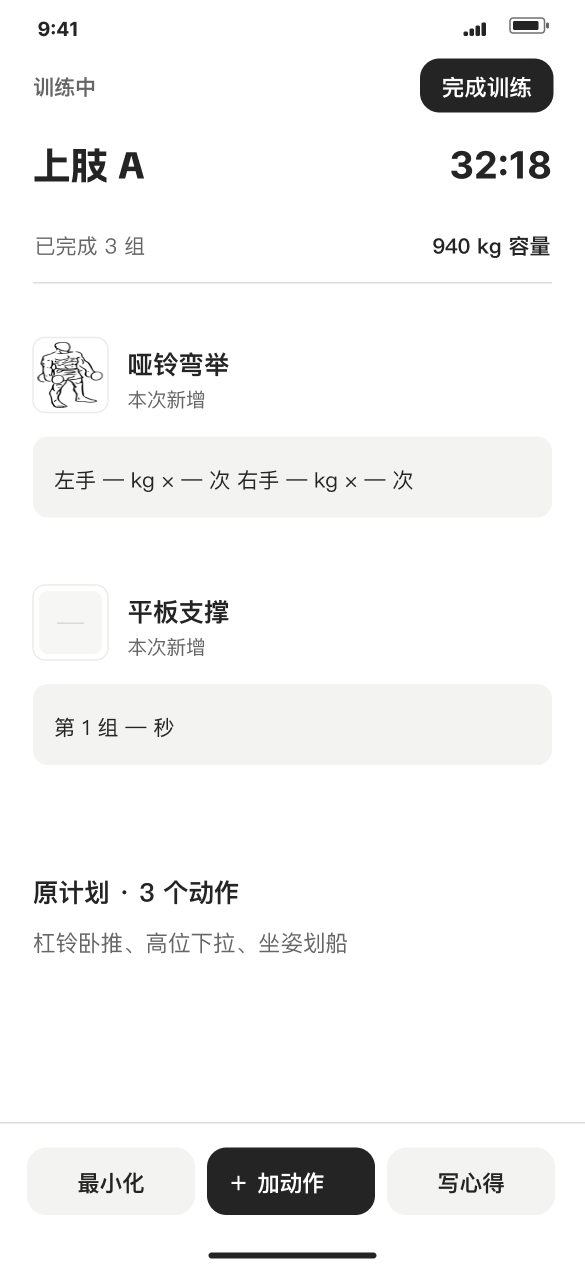
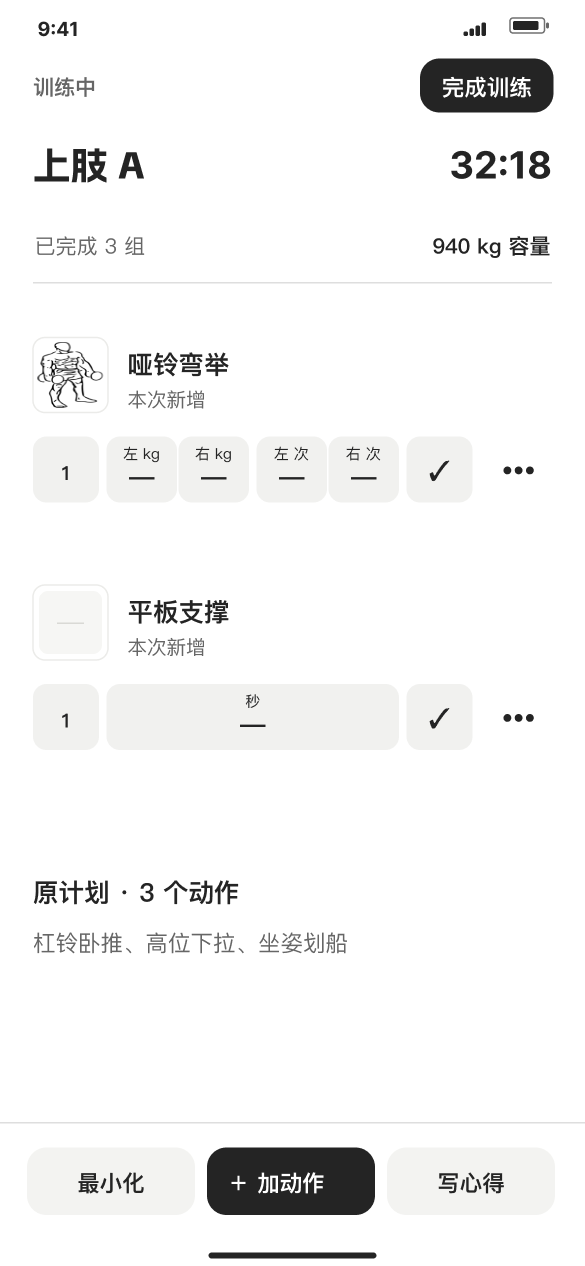
发布健身 1.11.4 并同步原位数字输入设计稿

diff --git a/components/gym/training-set.tsx b/components/gym/training-set.tsx
@@ -1,56 +1,81 @@
 "use client";
-import { useState } from "react";
+import { useState, useRef } from "react";
 import { Check, MoreHorizontal, Plus, X } from "lucide-react";
 import { emptyValues, type Mode, type SetRow, type Values } from "@/lib/gym/model";
-import { Sheet, SetForm } from "./parts";
+import { Sheet } from "./parts";
 
 type Props = {
   row: SetRow; number: number; mode: Mode; busy: boolean; canCopy: boolean; message: string;
-  save: (stages: Values[], done: boolean, after?: () => void) => void;
+  save: (stages: Values[], done: boolean, after?: () => void, quiet?: boolean) => void;
   copy: () => void;
 };
 
 export function TrainingSet({ row, number, mode, busy, canCopy, message, save, copy }: Props) {
   const [menu, setMenu] = useState(false);
-  const [editing, edit] = useState<number | null>(null);
+  const form = useRef<HTMLDivElement>(null);
   const stages = [row, ...row.stages];
   const drop = stages.length > 1;
   const hasValue = (v: Values) => mode === "time" ? v.seconds > 0 : v.reps + v.rightReps > 0;
+  function readFields() {
+    const next = stages.map(({kg,reps,rightKg,rightReps,seconds}) => ({kg,reps,rightKg,rightReps,seconds}));
+    for (const input of form.current?.querySelectorAll<HTMLInputElement>("input[data-field]") ?? []) {
+      next[Number(input.dataset.stage)][input.dataset.field as keyof Values] = Number(input.value);
+    }
+    return next;
+  }
+  function field(i: number, key: keyof Values, label: string, caption = label) {
+    const weight = key === "kg" || key === "rightKg";
+    return <label className="inline-number" key={key}><small>{caption}</small>
+      <input key={row.id + ":" + i + ":" + key} data-field={key} data-stage={i}
+        aria-label={"第 " + number + " 组，第 " + (i+1) + " 段，" + label}
+        type="number" inputMode={weight ? "decimal" : "numeric"} min={0}
+        max={key === "seconds" ? 86400 : 10000} step={weight ? "any" : 1}
+        defaultValue={stages[i][key] || ""} placeholder={weight ? "0" : "—"}
+        onFocus={event => {event.currentTarget.dataset.initial = event.currentTarget.value; event.currentTarget.select();}}
+        onKeyDown={event => { if(event.key === "Enter") event.currentTarget.blur(); }}
+        onBlur={event => {
+          const input = event.currentTarget;
+          if (input.value === input.dataset.initial) return;
+          if (!input.validity.valid) {
+            input.reportValidity();
+            input.value = input.dataset.initial ?? "";
+            return;
+          }
+          const values = readFields();
+          save(values, !!row.done && values.every(hasValue), undefined, true);
+        }} />
+    </label>;
+  }
   function add(index: number) {
-    const next = stages.slice();
+    const next = readFields();
     next.splice(index + 1, 0, { ...emptyValues });
-    save(next, false, () => { setMenu(false); edit(index + 1); });
+    save(next, false, () => { setMenu(false); });
   }
   function toggle() {
-    const missing = stages.findIndex(v => !hasValue(v));
-    if (!row.done && missing >= 0) edit(missing);
-    else save(stages, !row.done);
+    const values = readFields();
+    const missing = values.findIndex(v => !hasValue(v));
+    if (!row.done && missing >= 0) form.current?.querySelector<HTMLInputElement>(`input[data-stage="${missing}"][data-field="${mode==="time"?"seconds":"reps"}"]`)?.focus();
+    else save(values, !row.done);
   }
-  return <div className="set-block">
+  return <div className="set-block" ref={form}>
     {stages.map((stage, i) => <div className={"set-line" + (i ? " set-stage" : "")} key={i}>
       <span className="set-number">{drop ? (i ? "递 " + (i + 1) : number + " · 递1") : number}</span>
-      {mode === "time" ? <button className="set-field timed" onClick={() => edit(i)}><small>秒</small>{stage.seconds || "—"}</button> :
+      {mode === "time" ? <div className="set-field timed">{field(i,"seconds","时长（秒）","秒")}</div> :
         <>
-          <button className="set-field" onClick={() => edit(i)}><small>{mode === "sides" ? "左 / 右 kg" : mode === "pair" ? "单只 kg" : mode === "assist" ? "辅助 kg" : mode === "body" ? "额外 kg" : "kg"}</small>
-            {mode === "sides" ? stage.kg + " / " + stage.rightKg : stage.kg}</button>
-          <button className="set-field" onClick={() => edit(i)}><small>{mode === "sides" ? "左 / 右 次" : "次"}</small>
-            {mode === "sides" ? stage.reps + " / " + stage.rightReps : stage.reps || "—"}</button>
+          <div className="set-field">{field(i,"kg",mode==="sides"?"左 kg":mode==="pair"?"单只 kg":mode==="assist"?"辅助 kg":mode==="body"?"额外 kg":"kg")}{mode==="sides" && field(i,"rightKg","右 kg")}</div>
+          <div className="set-field">{field(i,"reps",mode==="sides"?"左 次":"次")}{mode==="sides" && field(i,"rightReps","右 次")}</div>
         </>}
       {i === 0 ? <>
         <button disabled={busy} className="set-check" aria-label={"完成第 " + number + " 组"} aria-pressed={!!row.done} onClick={toggle}><Check size={19}/></button>
         <button disabled={busy} className="set-more" aria-label={"第 " + number + " 组操作"} onClick={() => setMenu(true)}><MoreHorizontal size={21}/></button>
       </> : <>
         <button disabled={busy || stages.length >= 30} aria-label={"在第 " + (i+1) + " 段后添加"} onClick={() => add(i)}><Plus size={17}/></button>
-        <button className="set-more" disabled={busy} aria-label={"移除第 " + (i+1) + " 段"} onClick={() => save(stages.filter((_,j)=>j!==i), !!row.done)}><X size={16}/></button>
+        <button className="set-more" disabled={busy} aria-label={"移除第 " + (i+1) + " 段"} onClick={() => save(readFields().filter((_,j)=>j!==i), !!row.done)}><X size={16}/></button>
       </>}
     </div>)}
     {menu && <Sheet title={"第 " + number + " 组"} close={() => setMenu(false)} message={message}>
       <div className="set-menu"><button disabled={busy || stages.length>=30} onClick={() => add(stages.length-1)}>{drop ? "添加递减段" : "递减组"}</button>
       <button disabled={busy || !canCopy} onClick={() => { setMenu(false); copy(); }}>复制组</button></div>
-    </Sheet>}
-    {editing !== null && stages[editing] && <Sheet title={"第 " + number + " 组" + (drop ? " · 递 " + (editing+1) : "")} close={() => edit(null)} message={message}>
-      <SetForm row={{...row,...stages[editing]}} mode={mode} busy={busy} segment={drop}
-        save={(value, done) => save(stages.map((v,i)=>i===editing?value:v),drop ? !!row.done : done,()=>edit(null))}/>
     </Sheet>}
   </div>;
 }

diff --git a/components/gym/gym-app.tsx b/components/gym/gym-app.tsx
@@ -52,7 +52,9 @@ export default function GymApp({
     [detail, setDetail] = useState<Workout | null>(null),
     [finished, setFinished] = useState(false);
   const [focused, focus] = useState<number | null>(null);
-  const inflight = useRef(false),
+  const writeQueue = useRef(Promise.resolve()),
+    lastWrite = useRef<{id:number;revision:number} | null>(null),
+    failure = useRef(0),
     pending = useRef<{ payload: string; key: string } | null>(null),
     generation = useRef(0);
   const active = data.active;
@@ -76,37 +78,46 @@ export default function GymApp({
   async function send(
     command: Command,
     after?: (id: number, next: Dashboard) => void | Promise<void>,
+    quiet = false,
   ) {
-    if (inflight.current) return;
-    inflight.current = true;
-    setBusy(true);
-    say("");
-    generation.current++;
-    const payload = JSON.stringify(command);
-    if (pending.current?.payload !== payload)
-      pending.current = { payload, key: crypto.randomUUID() };
-    try {
-      const result = await changeGym(pending.current.key, data.month, command);
-      pending.current = null;
-      if (!result.ok) {
-        say(result.message);
-        if (result.login) login();
-        else if (result.message.includes("已更新")) {
-          const fresh = await readGym(data.month);
-          update(fresh);
-          show(null);
-          if (!fresh.active && view === "work") setView("home");
+    const epoch = failure.current;
+    if (!quiet) setBusy(true);
+    const run = async () => {
+      if (epoch !== failure.current) return;
+      if ("workoutId" in command && lastWrite.current?.id === command.workoutId && command.revision < lastWrite.current.revision)
+        command = {...command, revision:lastWrite.current.revision};
+
+      say("");
+      generation.current++;
+      const payload = JSON.stringify(command);
+      if (pending.current?.payload !== payload)
+        pending.current = { payload, key: crypto.randomUUID() };
+      try {
+        const result = await changeGym(pending.current.key, data.month, command);
+        pending.current = null;
+        if (!result.ok) {
+          failure.current++; lastWrite.current=null;
+          say(result.message);
+          if (result.login) login();
+          else if (result.message.includes("已更新")) {
+            const fresh = await readGym(data.month);
+            update(fresh);
+            show(null);
+            if (!fresh.active && view === "work") setView("home");
+          }
+          return;
         }
-        return;
+        lastWrite.current = result.data.active;
+        update(result.data);
+        await after?.(result.id, result.data);
+      } catch (e) {
+        report(e);
+        failure.current++;
       }
-      update(result.data);
-      await after?.(result.id, result.data);
-    } catch (e) {
-      report(e);
-    } finally {
-      inflight.current = false;
-      setBusy(false);
-    }
+    };
+    const task = writeQueue.current.then(run);
+    writeQueue.current = task.catch(() => {});
+    try { await task; } finally { if (!quiet) setBusy(false); }
   }
   async function changeMonth(month: string) {
     const gen = ++generation.current;
@@ -421,11 +432,11 @@ export default function GymApp({
                   </button>
                   {expanded && (
                     <>
-                      {item.sets.map((row, i) => <TrainingSet key={row.id} row={row}
+                      {item.sets.map((row, i) => <TrainingSet key={row.id + ":" + row.stages.length} row={row}
                         number={i+1} mode={item.mode} busy={busy} message={message} canCopy={item.sets.length<30}
                         copy={() => send({ type:"copySet", workoutId:active.id, revision:active.revision, setId:row.id })}
-                        save={(stages,done,after) => send({ type:"recordStages", workoutId:active.id,
-                          revision:active.revision, setId:row.id, stages, done }, after)} />)}
+                        save={(stages,done,after,quiet) => send({ type:"recordStages", workoutId:active.id,
+                          revision:active.revision, setId:row.id, stages, done }, after,quiet)} />)}
                       <button
                         className="text"
                         disabled={busy || item.sets.length >= 30}

diff --git a/components/gym/parts.tsx b/components/gym/parts.tsx
@@ -1,7 +1,7 @@
 "use client";
 import { useEffect, useRef, useState, type ReactNode } from "react";
 import Image from "next/image";
-import type { Exercise, Mode, Values, SetRow } from "@/lib/gym/model";
+import type { Exercise, Mode } from "@/lib/gym/model";
 import { clockTime } from "@/lib/gym/model";
 const titleArtwork = {
   "我的计划": ["plans", 98, 24], "动作库": ["library", 73, 23], "选择计划动作": ["select-plan", 148, 24],
@@ -86,90 +86,3 @@ export const modeLabels: Record<Mode, string> = {
   body: "次数 · 可记额外负重",
   assist: "辅助配重 × 次数",
 };
-export function SetForm({
-  row,
-  segment = false,
-  mode,
-  save,
-  busy,
-}: {
-  segment?: boolean;
-  row: SetRow;
-  mode: Mode;
-  save: (v: Values, done: boolean) => void;
-  busy: boolean;
-}) {
-  const [values, setValues] = useState<Values>({
-    kg: row.kg,
-    reps: row.reps,
-    rightKg: row.rightKg,
-    rightReps: row.rightReps,
-    seconds: row.seconds,
-  });
-  const field = (key: keyof Values, title: string, integer = false) => (
-    <label key={key}>
-      {title}
-      <input
-        type="number"
-        min="0"
-        max={key === "seconds" ? 86400 : 10000}
-        step={integer ? "1" : "0.01"}
-        inputMode={integer ? "numeric" : "decimal"}
-        defaultValue={values[key] || ""}
-        placeholder="0"
-        onChange={(e) =>
-          setValues({ ...values, [key]: Number(e.target.value) })
-        }
-      />
-    </label>
-  );
-  return (
-    <form
-      onSubmit={(e) => {
-        e.preventDefault();
-        save(values, true);
-      }}
-    >
-      <p className="gym-muted">{modeLabels[mode]}</p>
-      <div className="gym-fields">
-        {mode === "time" ? (
-          field("seconds", "时长（秒）", true)
-        ) : (
-          <>
-            {field(
-              "kg",
-              mode === "assist"
-                ? "辅助重量 kg"
-                : mode === "pair"
-                  ? "单只重量 kg"
-                  : mode === "sides"
-                    ? "左侧总负重 kg"
-                    : mode === "body"
-                      ? "额外负重 kg"
-                      : "总重量 kg",
-            )}
-            {field("reps", mode === "sides" ? "左侧次数" : "实际次数", true)}
-            {mode === "sides" && (
-              <>
-                {field("rightKg", "右侧总负重 kg")}
-                {field("rightReps", "右侧次数", true)}
-              </>
-            )}
-          </>
-        )}
-      </div>
-      <div className="gym-actions">
-        {!segment && <button
-          type="button"
-          disabled={busy}
-          onClick={() => save(values, false)}
-        >
-          {row.done ? "撤销完成" : "保存未完成"}
-        </button>}
-        <button className="primary" disabled={busy}>
-          {segment ? "保存本段" : "完成这一组"}
-        </button>
-      </div>
-    </form>
-  );
-}

diff --git a/app/gym/gym.css b/app/gym/gym.css
@@ -712,3 +712,9 @@ html:has(.gym) {
 .set-stage { margin-top:4px; }
 .set-stage .set-number { color:#666; font-size:12px; background:#f8f8f7; }
 .set-menu { display:grid; gap:8px; }
+.set-line .set-field { display:flex; min-width:0; align-items:stretch; background:#f1f1ef; border-radius:9px; }
+.inline-number { flex:1; min-width:0; display:grid; text-align:center; align-content:center; padding:3px 1px; border-radius:8px; }
+.inline-number:focus-within { outline:1.5px solid #444; outline-offset:-1.5px; background:#fff; }
+.inline-number input { appearance:textfield; width:100%; min-width:0; border:0; padding:0; background:transparent; color:inherit; text-align:center; outline:0; line-height:1.2; font-family:inherit; font-size:17px; font-weight:600; }
+.inline-number input::-webkit-inner-spin-button { appearance:none; }
+.set-number { font-size:12px; white-space:nowrap; }

diff --git a/lib/product-versions.ts b/lib/product-versions.ts
@@ -1,5 +1,5 @@
 export const productVersions = {
   login: "1.11.1",
   todo: "1.11.1",
-  gym: "1.11.3",
+  gym: "1.11.4",
 } as const;

diff --git a/docs/设计日志/健身/设计日志.md b/docs/设计日志/健身/设计日志.md
@@ -122,3 +122,11 @@
 ## 2026-11-12-04｜递减组、复制组与删除训练历史
 
 用户确认手机训练行采用独立数据框和整组勾选。已实现普通组转递减组、插入和移除段、复制整组、历史逐段明细与确认删除。复用服务器当前发行版交接源码，通过 [Linux 构建](https://github.com/zqsoren/Foilo/actions/runs/43154608861)。隔离发布包在手机浏览器中验证 3 × 40、2 × 20、1 × 20 合计 180 kg，复制后仍只完成一组。先取消删除再确认，原日期恢复空态。数据库测试另验证跨账号访问与级联删除。上线 1.11.3 / 20261112-03，完整交接已回传并校验。Figwright 未连接文件，本轮原型变更以[网页截图](预览/手机网页/递减组-上线验收.png)记录。
+
+## 2026-11-12-05｜训练原位输入与 Figma EX 同步
+
+按用户体验反馈移除训练数值编辑弹层，整组勾选、复制、递减与删除历史沿用 1.11.3 规则。对修改后的数字在失焦或回车时提交，串行处理连续写入与紧随其后的组操作，复用数据库版本 10。
+
+在 Figma EX 的手机端同步主训练页、训练开始与逐组状态、复制与递减示例、左右与计时数据框。数字框的焦点状态使用数字键盘示意。日记的 11 月 6 日及 11 日记录分别连接历史专用详情、删除确认及原日期空态，刚结束的总结保留首页出口。
+
[1 lines of base64/hex data omitted]

diff --git a/docs/设计日志/在侧Folio-新窗口交接.md b/docs/设计日志/在侧Folio-新窗口交接.md
@@ -13,7 +13,7 @@
 | 模块 | 最近里程碑 | 当前状态 | 历史过程 | 现行规则 |
 |---|---|---|---|---|
 | ToDo（日程） | 网页版与共用登录已上线；手机端七张黑白灰设计稿待评审 | [当前状态](ToDo/新窗口交接.md) | [设计日志](ToDo/设计日志.md) | [设计与写作规则](ToDo/设计与写作规则.md) |
-| 健身 | 手机训练与桌面统计已上线，入口 `/gym`，产品版本 1.11.3 | [当前状态](健身/新窗口交接.md) | [设计日志](健身/设计日志.md) | [设计与写作规则](健身/设计与写作规则.md) |
+| 健身 | 手机训练与桌面统计已上线，入口 `/gym`，产品版本 1.11.4 | [当前状态](健身/新窗口交接.md) | [设计日志](健身/设计日志.md) | [设计与写作规则](健身/设计与写作规则.md) |
 | 宣传页 | 第五版桌面页已上线；手机不在本轮范围 | [当前状态](宣传页/新窗口交接.md) | [设计日志](宣传页/设计日志.md) | [设计与写作规则](宣传页/设计与写作规则.md) |
 
 共用登录 `/login` 的现行稿、实现和发布记录暂由 ToDo 维护。其他模块复用；修改时检查登录回跳和其他模块入口。它与未来的账号主页属于不同范围。

diff --git a/docs/设计日志/版本号.md b/docs/设计日志/版本号.md
@@ -21,7 +21,7 @@
 | 共用登录页（含注册） | **1.11.1** | 2026-11-10 | 手机号、密码和注册页底部居中，显示 `LOGIN \| 1.11.1` |
 | ToDo | **1.11.1** | 2026-11-10 | 网页版「数据概览」和「所有任务」页底居中，显示 `TODO \| 1.11.1`。网页和手机设置中也可查看 |
 | 宣传页 | **1.11.1** | 2026-11-11 | 独立页面 HTML 的 `folio-version` meta；页面不增加可见版本字样 |
-| 健身 | **1.11.3** | 2026-11-12 | 登录后的 `/gym` 页面 `folio-version` meta，业务发布 20261112-03 |
+| 健身 | **1.11.4** | 2026-11-12 | 登录后的 `/gym` 页面 `folio-version` meta，业务发布 20261112-04 |
 
 宣传页独立静态发布，版本写入 `folio-landing/index.html` 的 `folio-version` meta，不在 UI 新增版本文字。
 

diff --git a/docs/设计日志/健身/设计与写作规则.md b/docs/设计日志/健身/设计与写作规则.md
@@ -36,3 +36,5 @@
 ## 组别与历史记录
 
 普通组和递减组按整组勾选。递减组每段记录独立的重量和次数，完成后累计各段容量、计一个完成组。组行依次显示组号、负重、次数、勾选及更多操作；计时动作显示秒数。更多菜单可转换为递减组或复制整组。复制保留全部段并置为未完成。历史详情底部可删除该次记录，确认后返回原日期；刚结束训练的总结仍可返回训练首页。
+
+训练中点重量、次数或秒数直接在该框录入。重量允许小数，次数与秒数为整数。单侧动作分别编辑左、右值。切换字段与勾选可连续操作，只有组菜单和历史删除确认使用弹层。
